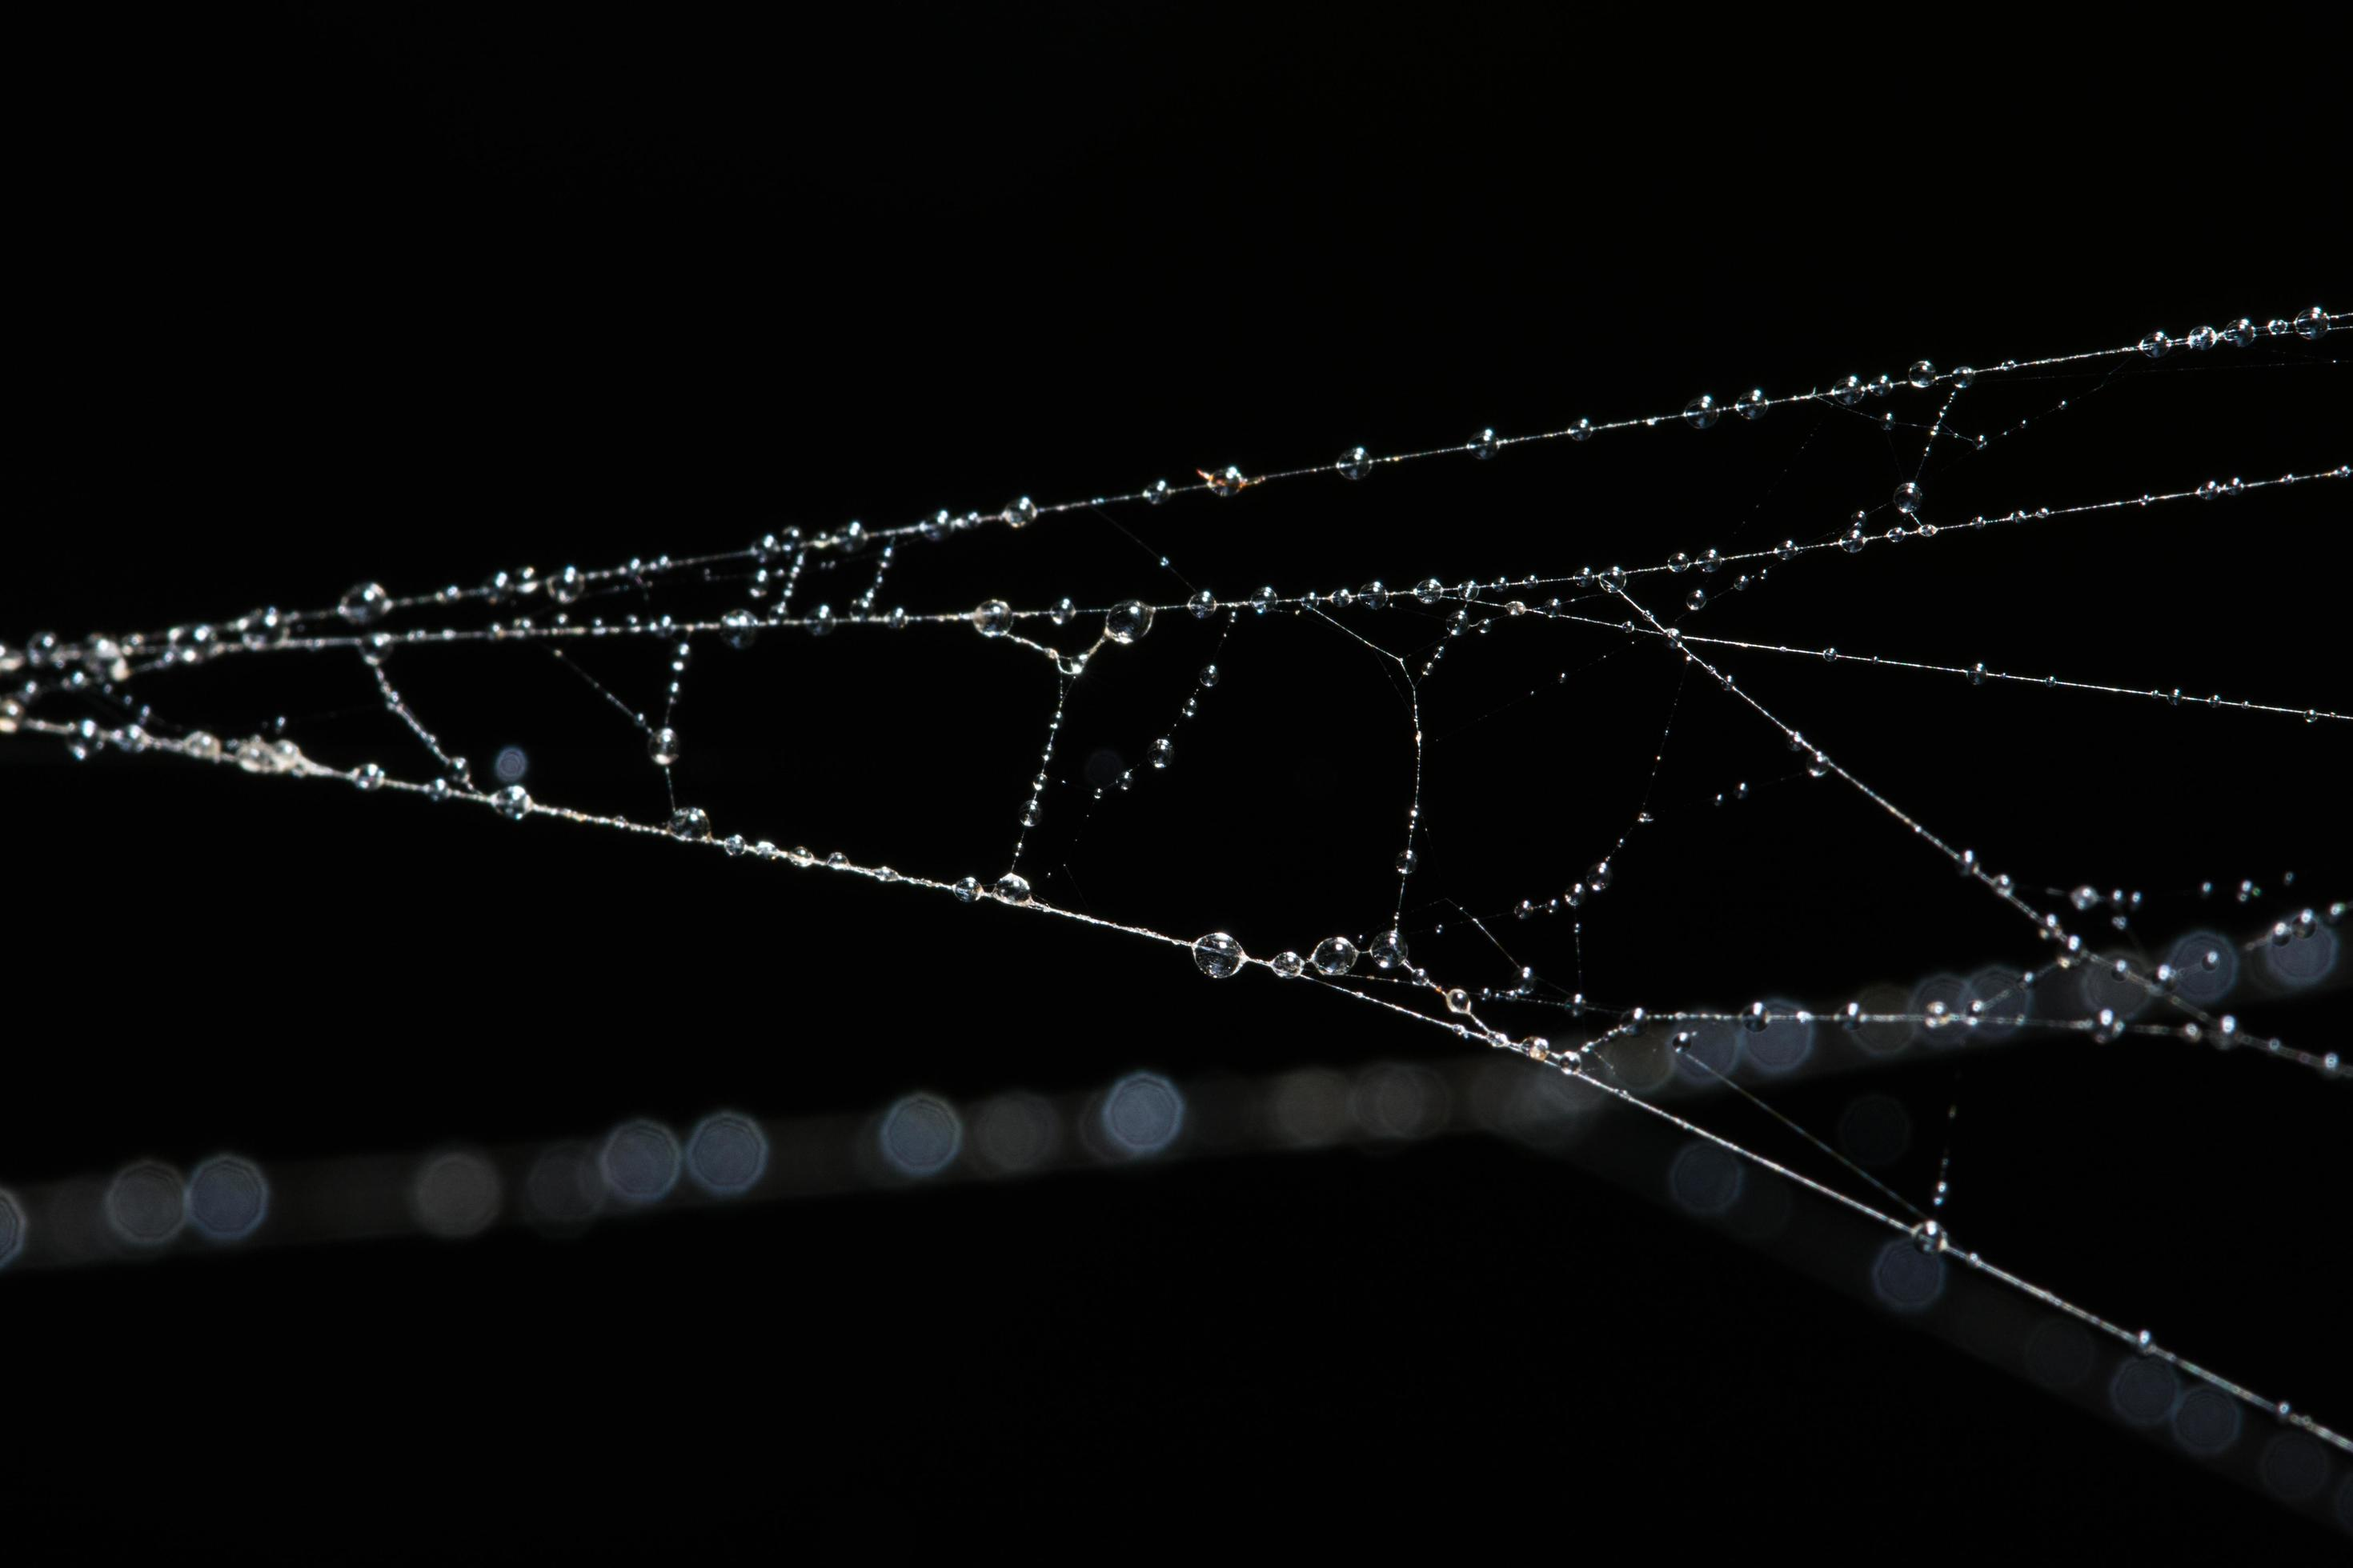
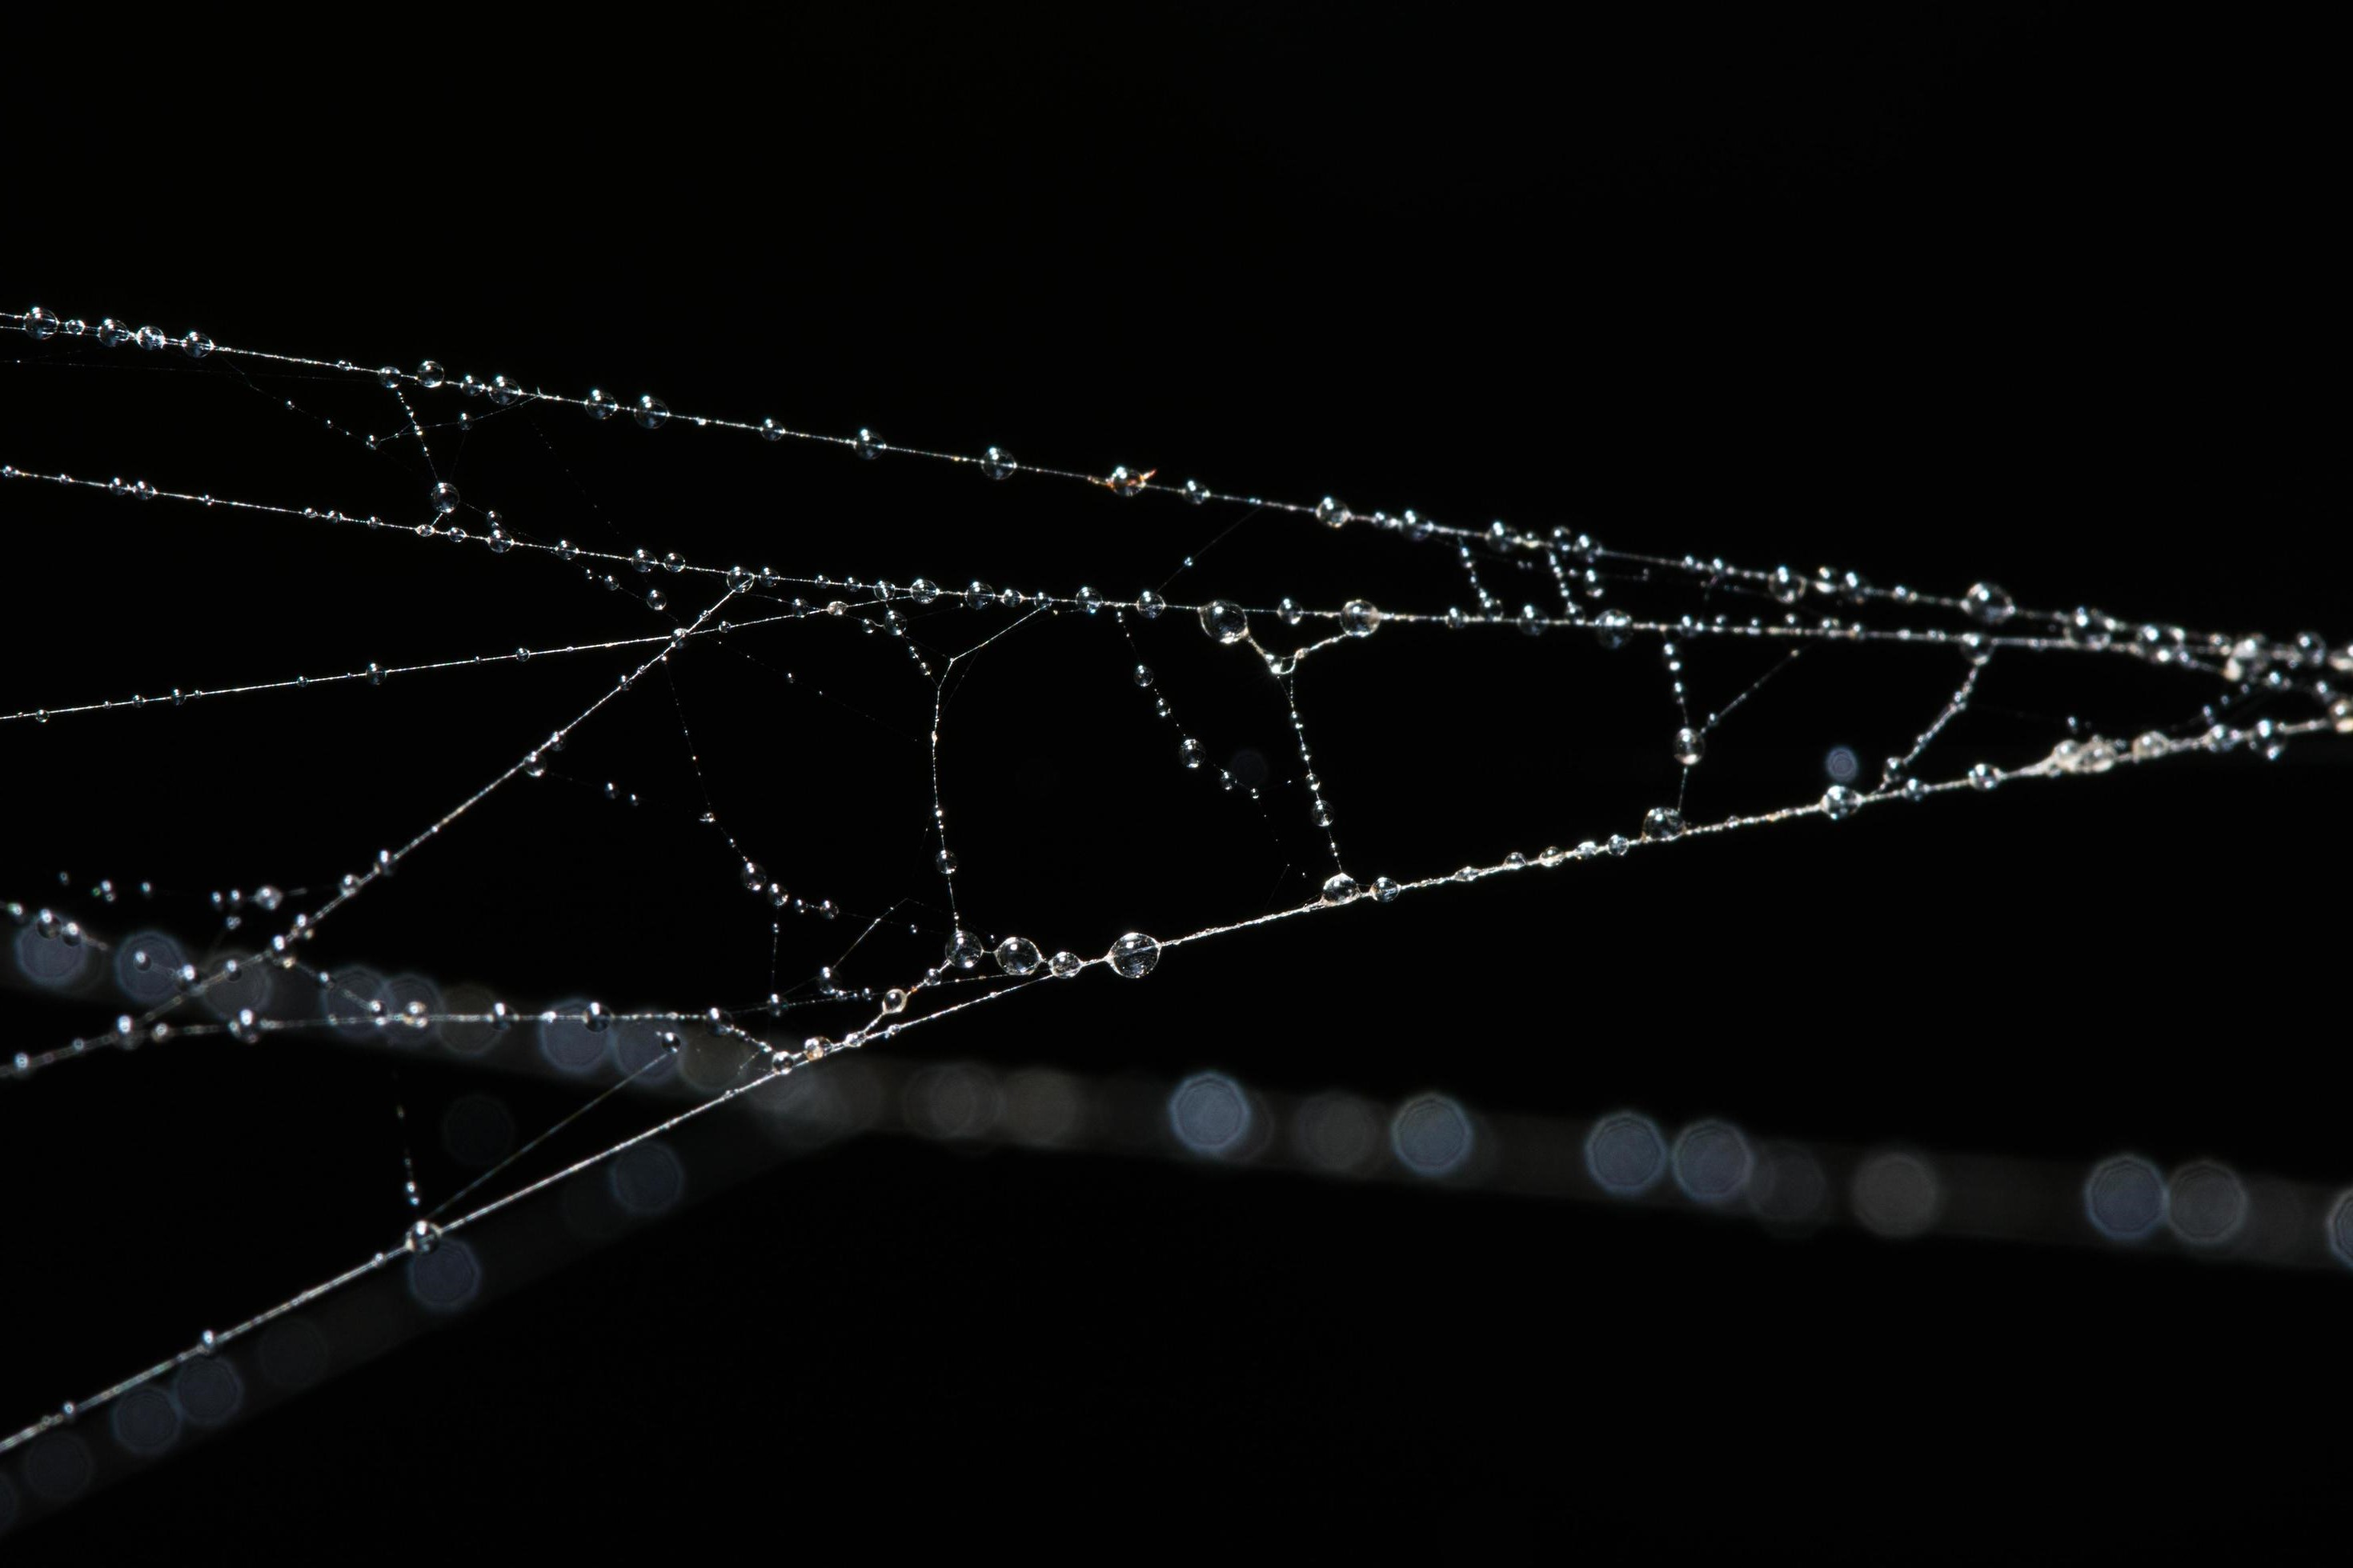
Rotated the new background-image

diff --git a/src/style.css b/src/style.css
@@ -8,7 +8,6 @@
 html {
   scroll-behavior: smooth;
   height: 100%;
-  transition: 5s;
 }
 
 body {
@@ -59,11 +58,6 @@ h2 {
 }
 
 @media (max-width: 576px) {
-  /* body {
-    background-image: url("/media/sm-web.jpg");
-    background-size: cover;
-    background-repeat: no-repeat;
-  } */
   .hero {
     margin-top: 30% !important;
     max-width: 95%;
